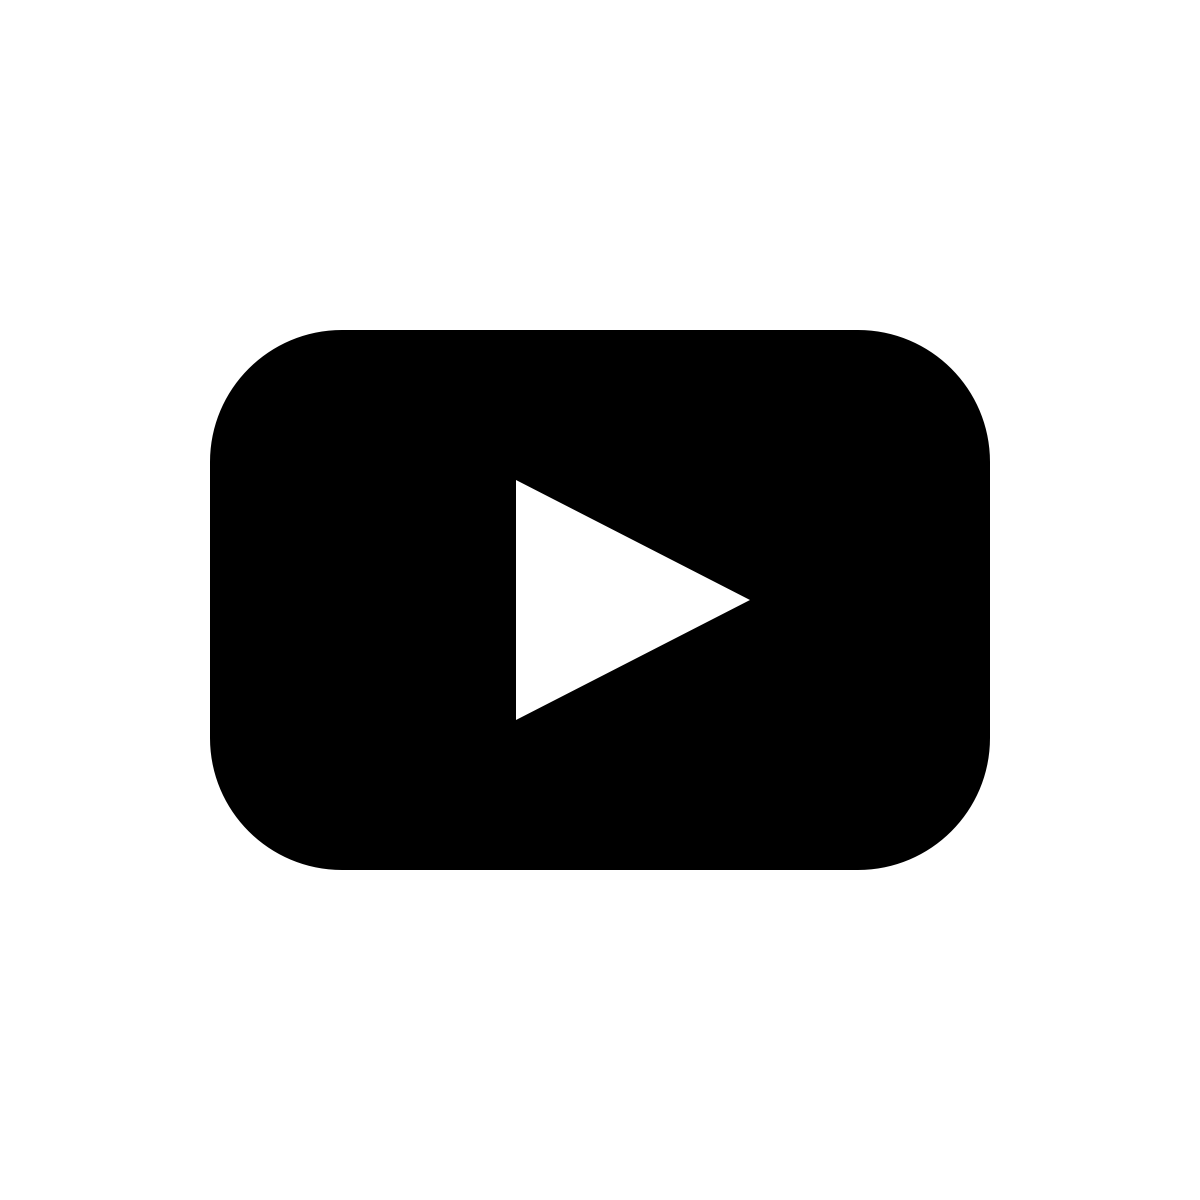
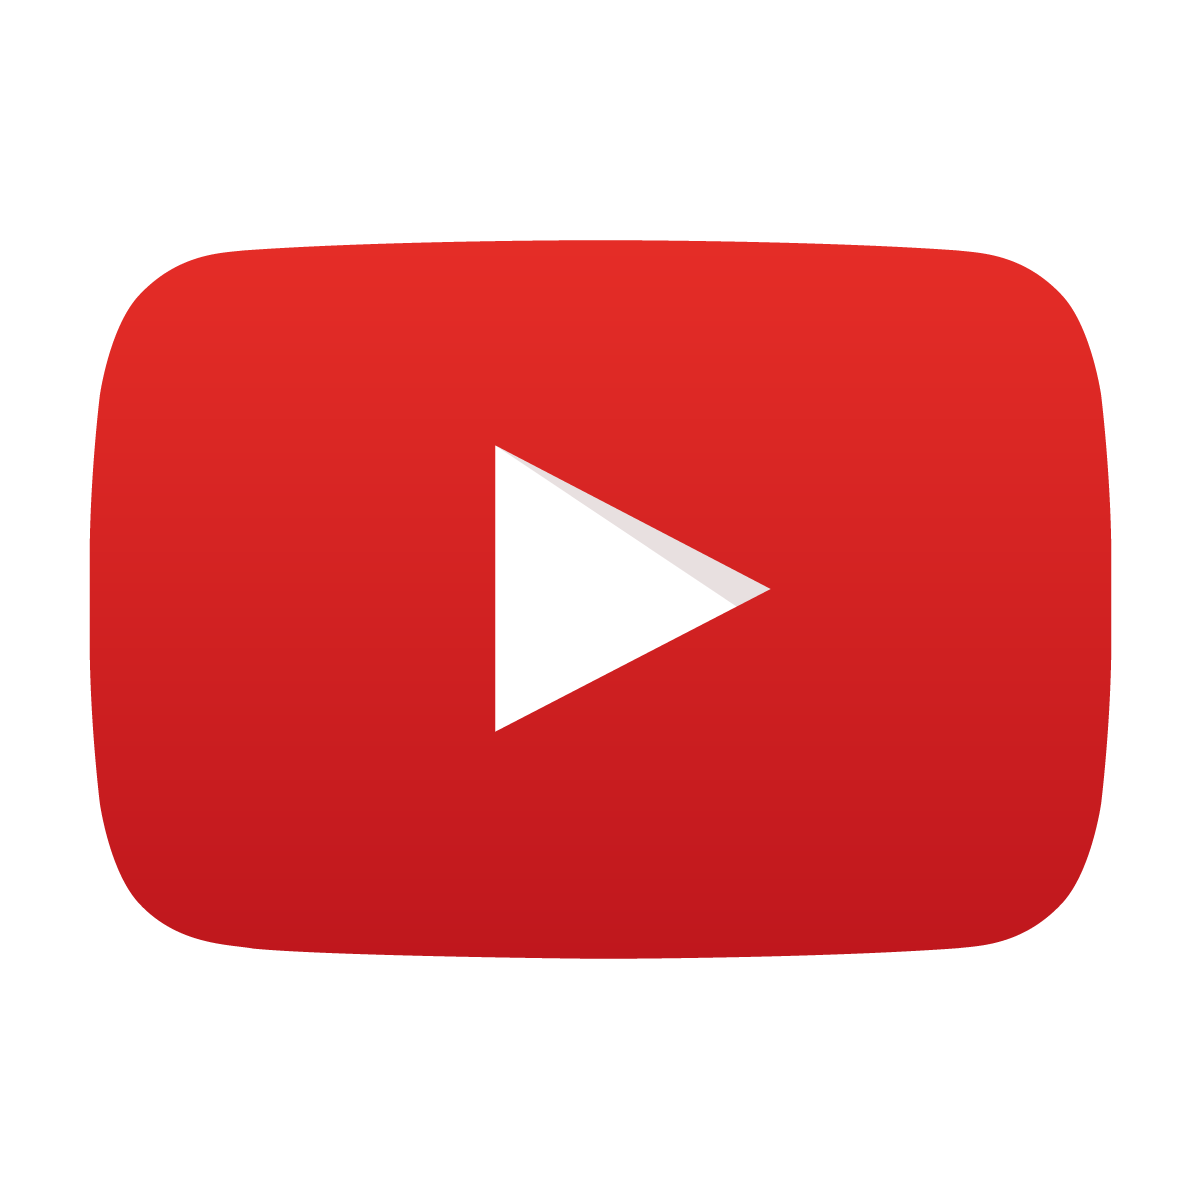
1/23 맘스터치 수정

diff --git a/css/common.css b/css/common.css
@@ -7,7 +7,7 @@
   --main-color2: #d7d2cb;
   --main-color3: #5c4738;
 
-  font-family: "Noto Sans KR", sans-serif;
+  font-family: 'Noto Sans KR', sans-serif;
 }
 
 .inner {
@@ -44,8 +44,8 @@ nav {
   height: 100%;
   align-items: center;
   display: flex;
-  font-weight: 400;
-  font-size: 2rem;
+  font-weight: 500;
+  font-size: 2.2rem;
   justify-content: space-between;
   /* margin-right: 19rem; */
 }
@@ -56,10 +56,28 @@ nav {
   display: flex;
   justify-content: center;
   gap: 3rem;
+  /* background: #ff5; */
+  align-items: center;
 }
-.topmenu img {
+
+.topmenu a {
+}
+.sns1 {
   width: 4.5rem;
   height: 4.5rem;
+  background: url(../img/인스타로고.png) no-repeat 50% 50% / cover;
+}
+.sns2 {
+  width: 3.5rem;
+  height: 4.5rem;
+  background: url(../img/페이스북-로고.png) no-repeat 50% 50% / contain;
+}
+.sns3 {
+  width: 4.5rem;
+  height: 5rem;
+  background: url(../img/유튜브로고.png) no-repeat 50% 50% / cover;
+}
+.topmenu img {
 }
 
 .gnb li {
@@ -68,8 +86,8 @@ nav {
 .foot-menu {
   /* width: 192rem; */
   /*  height: 50rem; */
-  background: #987f71;
-  margin-top: 35rem;
+  background: #7a4d34;
+  /* margin-top: 15rem; */
   padding-top: 8rem;
   padding-bottom: 7rem;
 }
@@ -179,23 +197,22 @@ a:hover {
 }
 
 .btn-wrap {
-  margin-top: 20rem;
+  margin-top: 12rem;
   display: flex;
+  margin-bottom: 15rem;
 }
 
 .btn-basic {
-  border: 2px solid var(--main-color);
+  border: 3px solid var(--main-color);
+  border: 2px solid #000;
   font-size: 2rem;
-  padding: 2rem 6rem;
-  /*  width: 32rem;
-  height: 6rem; */
-  /* margin: 13rem auto 0; */
+  padding: 2rem 4rem;
   margin: 0 auto;
   display: flex;
   gap: 2rem;
 }
 .btn-basic::after {
-  content: "";
+  content: '';
   display: block;
   width: 2.4rem;
   height: 2.4rem;
@@ -204,6 +221,7 @@ a:hover {
 .btn-basic:hover {
   background: var(--main-color);
   color: #fff;
+  border: 2px solid var(--main-color);
 }
 
 .btn-basic:hover::after {

diff --git a/css/main.css b/css/main.css
@@ -100,7 +100,7 @@
 
 .menu-name {
   position: absolute;
-  background: #bd8a6b;
+  background: #5f3c27;
   width: 38rem;
   height: 43rem;
   bottom: 0;
@@ -153,8 +153,9 @@
 }
 
 .news-fran {
-  padding-top: 22rem;
+  padding: 15rem;
   line-height: 1.5;
+  background: #e3d6bf;
 }
 
 .news-fran .inner {
@@ -165,7 +166,7 @@
 
 .news {
   width: 55rem;
-  height: 25rem;
+  height: 30rem;
   display: block;
   /* border: 1px solid #000; */
   border-radius: 2rem;
@@ -185,15 +186,15 @@
 }
 
 .news a {
-  width: 31rem;
+  width: 25rem;
   height: 5rem;
   display: flex;
   align-items: center;
   justify-content: center;
   font-size: 2rem;
-  margin: 2.6rem auto;
+  margin: 3.8rem auto;
   text-align: center;
-  border: 1px solid #000;
+  border: 2px solid #000;
   background-color: #fff;
   border-radius: 2rem;
 }
@@ -205,10 +206,8 @@
 
 .franchise {
   width: 55rem;
-  height: 25rem;
+  height: 30rem;
   display: block;
-  /* position: relative; */
-  /* border: 1px solid #000; */
   border-radius: 2rem;
   padding: 3rem 3.5rem 1.5rem 6rem;
   background-color: #f2a900;
@@ -224,15 +223,15 @@
 }
 
 .franchise a {
-  width: 31rem;
+  width: 25rem;
   height: 5rem;
   display: flex;
   align-items: center;
   justify-content: center;
   font-size: 2rem;
-  margin: 2.6rem auto;
-  /* position: absolute; */
-  border: 1px solid #000;
+  margin: 3.8rem auto;
+
+  border: 2px solid #000;
   background-color: #fff;
   border-radius: 2rem;
 }

diff --git a/index.html b/index.html
@@ -28,9 +28,9 @@
             <li><a href="#">브랜드스토리</a></li>
           </ul>
           <div class="topmenu">
-            <a href="#" class="sns"><img src="./img/페이스북-로고.png" alt="#" /></a>
-            <a href="#" class="sns"><img src="./img/pngwing.com.png" alt="#" /></a>
-            <a href="#" class="sns"><img src="./img/유튜브로고.png" alt="#" /></a>
+            <a href="#" class="sns1"></a>
+            <a href="#" class="sns2"></a>
+            <a href="#" class="sns3"></a>
           </div>
         </nav>
       </div>

diff --git a/promotion.html b/promotion.html
@@ -28,9 +28,9 @@
             <li><a href="#">브랜드스토리</a></li>
           </ul>
           <div class="topmenu">
-            <a href="#" class="sns"><img src="./img/페이스북-로고.png" alt="#" /></a>
-            <a href="#" class="sns"><img src="./img/pngwing.com.png" alt="#" /></a>
-            <a href="#" class="sns"><img src="./img/유튜브로고.png" alt="#" /></a>
+            <a href="#" class="sns1"></a>
+            <a href="#" class="sns2"></a>
+            <a href="#" class="sns3"></a>
           </div>
         </nav>
       </div>
